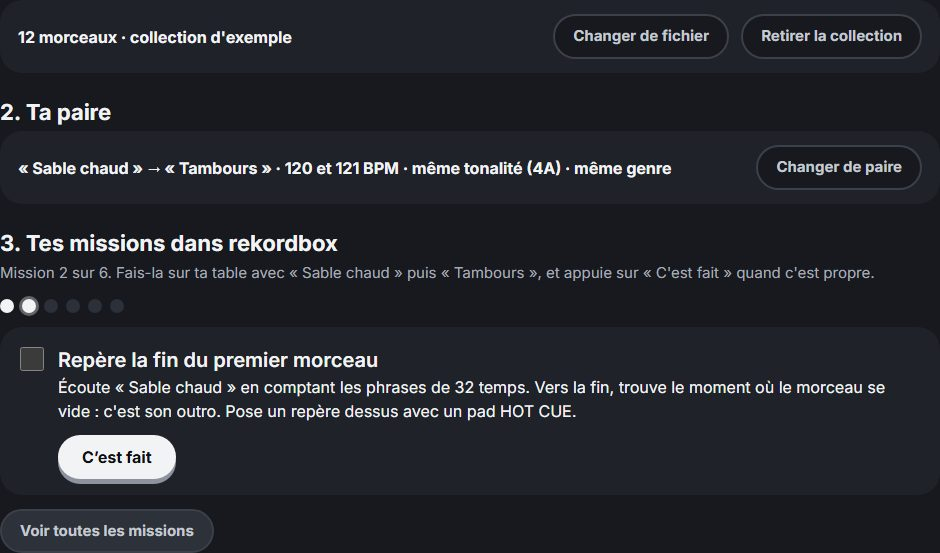
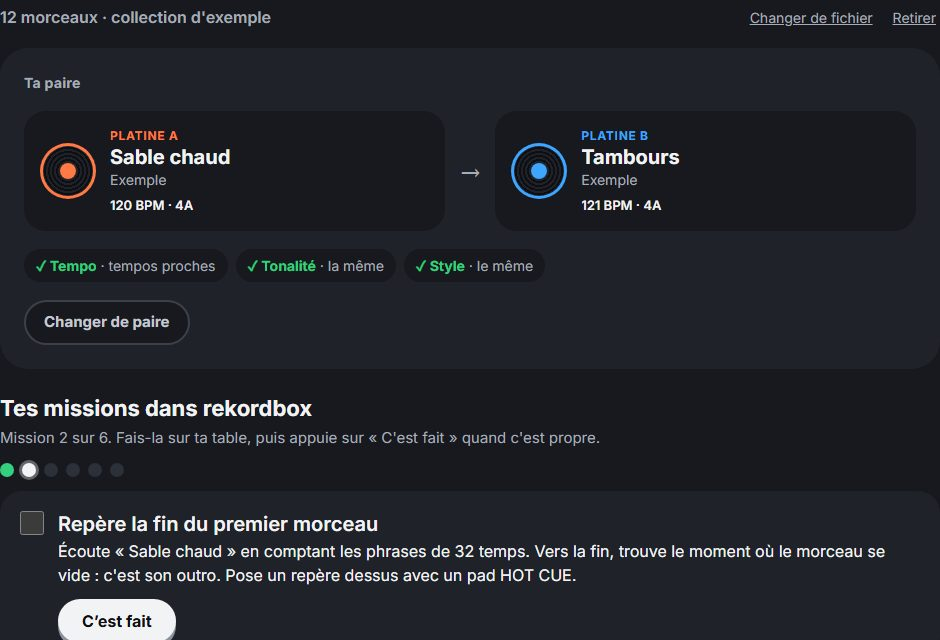
« Passer au vrai » refait : une paire du jour en grand, deux platines, trois pastilles
- Avant l'import : « Mixe ta propre musique » en 3 étapes et un seul gros bouton
- Après : une seule paire proposée, avec Tempo / Tonalité / Style en un coup d'œil
- « C'est parti » ouvre les missions, « Une autre paire » en tire une nouvelle
- La liste complète reste derrière « Choisir une paire moi-même »

diff --git a/js/rekordbox.js b/js/rekordbox.js
@@ -75,15 +75,38 @@ function rbMissionList(a, b){
   ];
 }
 function rbSet(list, name){
-  rbLib = list.slice(0, RB_MAX); rbName = name || ''; rbSel = null; rbChoosing = false; rbShowAll = false; rbMis.pair = ''; rbMis.done = {}; rbSaveMis(); rbAll = null; rbStale = true; rbPage = 0; $('rbFind').value = ''; $('rbMsg').textContent = '';
+  rbLib = list.slice(0, RB_MAX); rbName = name || ''; rbSel = null; rbChoosing = false; rbShowAll = false; rbSug = -1; rbMis.pair = ''; rbMis.done = {}; rbSaveMis(); rbAll = null; rbStale = true; rbPage = 0; $('rbFind').value = ''; $('rbMsg').textContent = '';
   try { if (rbLib.length) localStorage.setItem(RB_KEY, JSON.stringify({ n: rbName, t: rbLib })); else localStorage.removeItem(RB_KEY); }
   catch (e) { $('rbMsg').textContent = 'Ta collection est trop grande pour être gardée en mémoire : il faudra la réimporter à ta prochaine visite.'; }
   renderReal();
 }
-// Une étape à la fois : la liste des paires se replie une fois la paire choisie (rbChoosing la rouvre),
-// et une seule mission est affichée, sauf si on demande à les voir toutes (rbShowAll)
-let rbChoosing = false, rbShowAll = false;
-function rbChoose(){ rbChoosing = true; rbShowAll = false; renderReal(); $('rbPairTitle').scrollIntoView({ behavior: REDUCED ? 'auto' : 'smooth', block: 'start' }); }
+// Une étape à la fois. Sans paire choisie, une seule paire est proposée en grand (rbSug, « Ta paire du jour ») ;
+// la liste complète s'ouvre avec « Choisir une paire moi-même » (rbChoosing). Une fois la paire choisie, ses
+// missions s'affichent une par une, sauf si on demande à les voir toutes (rbShowAll).
+let rbChoosing = false, rbShowAll = false, rbSug = -1;
+const rbScroll = id => $(id).scrollIntoView({ behavior: REDUCED ? 'auto' : 'smooth', block: 'start' });
+function rbChoose(){ rbChoosing = true; rbShowAll = false; renderReal(); rbScroll('rbPairPick'); }
+// Choisit une paire : ses missions repartent de zéro si c'en est une nouvelle
+function rbPickPair(i, j){ const k = i + '|' + j; if (rbMis.pair !== k){ rbMis.pair = k; rbMis.done = {}; rbSaveMis(); } rbSel = [i, j]; rbChoosing = false; rbShowAll = false; renderReal(); rbScroll('rbMisBox'); }
+// Paire suivante proposée : on laisse la paire en cours et on revient à la proposition
+function rbNextSug(){ rbSel = null; rbMis.pair = ''; rbMis.done = {}; rbSaveMis(); rbChoosing = false; rbSug = rbPairs.length ? (rbSug + 1) % rbPairs.length : 0; renderReal(); rbScroll('rbHero'); }
+// Pourquoi la paire marche, en trois pastilles : ok (vert), mid (jaune)
+function rbChips(a, b){
+  const d = Math.abs(b[3] / a[3] - 1) * 100, rel = rbRel(a[4], b[4]), ga = (a[2] || '').toLowerCase(), gb = (b[2] || '').toLowerCase();
+  return [
+    ['Tempo', d <= .5 ? ['ok', 'même tempo'] : d <= 3 ? ['ok', 'tempos proches'] : ['mid', 'à ajuster'], `${rbBpm(a[3])} et ${rbBpm(b[3])} BPM`],
+    ['Tonalité', { same: ['ok', 'la même'], adj: ['ok', 'voisines'], rel: ['ok', 'cousines'], boost: ['mid', 'montée d’énergie'] }[rel] || ['mid', 'à écouter'], `${a[4]} et ${b[4]}`],
+    ['Style', ga && ga === gb ? ['ok', 'le même'] : ga && gb ? ['mid', 'différents'] : ['mid', 'inconnu'], ga && gb ? `${a[2]} et ${b[2]}` : 'Genre absent de rekordbox']
+  ];
+}
+function rbHero(i, j, chosen){
+  const a = rbLib[i], b = rbLib[j];
+  $('rbKick').textContent = chosen ? 'Ta paire' : 'Ta paire du jour';
+  for (const [t, p] of [[a, 'A'], [b, 'B']]){ $('rb' + p + 'T').textContent = t[0]; $('rb' + p + 'A').textContent = t[1] || 'Artiste inconnu'; $('rb' + p + 'M').textContent = `${rbBpm(t[3])} BPM · ${t[4]}`; }
+  const box = $('rbChips'); box.innerHTML = '';
+  for (const [name, [lvl, txt], tip] of rbChips(a, b)){ const c = document.createElement('span'), k = document.createElement('b'); c.className = 'rbchip ' + lvl; c.title = tip; k.textContent = (lvl === 'ok' ? '✓ ' : '~ ') + name; c.append(k, document.createTextNode(' · ' + txt)); box.appendChild(c); }
+  $('rbGo').hidden = chosen; $('rbNext').hidden = chosen; $('rbPairChange').hidden = !chosen; $('rbOwn').hidden = chosen;
+}
 function rbCheck(id, on, list){
   if (on) rbMis.done[id] = 1; else delete rbMis.done[id];
   if (list.every(m => rbMis.done[m[0]]) && !rbMis.done.ok){ rbMis.done.ok = 1; rbMis.total++; confetti(120); badgeSync(); }
@@ -93,7 +116,7 @@ function renderMissions(){
   const box = $('rbMisBox'); box.hidden = !rbSel || rbChoosing; if (box.hidden) return;
   const a = rbLib[rbSel[0]], b = rbLib[rbSel[1]], list = rbMissionList(a, b), ol = $('rbMissions'); ol.innerHTML = '';
   const cur = list.findIndex(m => !rbMis.done[m[0]]), fini = cur < 0;
-  $('rbMisSub').textContent = fini ? `Les ${list.length} missions sont faites avec « ${a[0]} » puis « ${b[0]} ».` : `Mission ${cur + 1} sur ${list.length}. Fais-la sur ta table avec « ${a[0]} » puis « ${b[0]} », et appuie sur « C'est fait » quand c'est propre.`;
+  $('rbMisSub').textContent = fini ? `Les ${list.length} missions sont faites avec « ${a[0]} » puis « ${b[0]} ».` : `Mission ${cur + 1} sur ${list.length}. Fais-la sur ta table, puis appuie sur « C'est fait » quand c'est propre.`;
   const dots = $('rbDots'); dots.innerHTML = '';
   list.forEach((m, i) => { const d = document.createElement('span'); d.className = rbMis.done[m[0]] ? 'done' : i === cur ? 'now' : ''; dots.appendChild(d); });
   list.forEach(([id, title, text], i) => { const liEl = document.createElement('li'), lab = document.createElement('label'), cb = document.createElement('input'), d = document.createElement('div'), st = document.createElement('strong'), sp = document.createElement('span');
@@ -107,11 +130,16 @@ function renderMissions(){
 }
 function renderReal(){
   const has = rbLib.length > 0; $('rbEmpty').hidden = has; $('rbFull').hidden = !has; if (!has) return;
-  const usable = rbLib.filter(t => t[3] && t[4]).length, pick = !rbSel || rbChoosing;
-  $('rbPairPick').hidden = !pick; $('rbPairSum').hidden = pick; $('rbPairTitle').textContent = pick ? '2. Choisis une paire de morceaux' : '2. Ta paire';
-  if (rbSel){ const a = rbLib[rbSel[0]], b = rbLib[rbSel[1]]; $('rbPairTxt').textContent = `« ${a[0]} » → « ${b[0]} » · ${rbWhy(a, b)}`; }
+  const usable = rbLib.filter(t => t[3] && t[4]).length;
   $('rbSum').textContent = plur(rbLib.length, 'morceau', 'morceaux') + (rbName ? ' · ' + rbName : '') + (usable < rbLib.length ? ` · ${usable} avec tempo et tonalité` : '');
   if (rbStale){ const f = $('rbFind').value.trim(); if (f) rbPairs = rbBuild(f); else rbPairs = rbAll = rbAll || rbBuild(''); rbStale = false; rbPage = 0; }
+  // La paire du jour : tirée de la date parmi les 10 meilleures, puis « Une autre paire » passe à la suivante
+  const top = rbAll || rbPairs;
+  if (rbSug < 0 && top.length){ let h = 7; for (const c of dayKey()) h = (h * 31 + c.charCodeAt(0)) >>> 0; rbSug = h % Math.min(10, top.length); }
+  const sug = top[rbSug % Math.max(1, top.length)];
+  $('rbHero').hidden = rbChoosing || (!rbSel && !sug); $('rbPairPick').hidden = !rbChoosing && (!!rbSel || !!sug);
+  if (rbSel) rbHero(rbSel[0], rbSel[1], true); else if (sug) rbHero(sug[1], sug[2], false);
+  $('rbBack').hidden = !!rbSel || !sug;
   const pages = Math.max(1, Math.ceil(rbPairs.length / RB_PER)); if (rbPage >= pages) rbPage = 0;
   const box = $('rbPairs'); box.innerHTML = '';
   const shown = rbPairs.slice(rbPage * RB_PER, rbPage * RB_PER + RB_PER);
@@ -121,7 +149,7 @@ function renderReal(){
     for (const t of [a, b]){ const pt = document.createElement('span'), nm = document.createElement('b'), ar = document.createElement('span'); pt.className = 'pt'; nm.textContent = t[0]; ar.textContent = t[1] || 'Artiste inconnu'; pt.append(nm, ar);
       if (t === b){ const arrow = document.createElement('span'); arrow.className = 'ar'; arrow.textContent = '→'; arrow.setAttribute('aria-hidden', 'true'); btn.appendChild(arrow); } btn.appendChild(pt); }
     const why = document.createElement('span'); why.className = 'why'; if (c[0] >= 85){ const easy = document.createElement('b'); easy.textContent = 'Facile'; why.appendChild(easy); } why.appendChild(document.createTextNode(rbWhy(a, b))); btn.appendChild(why);
-    btn.addEventListener('click', () => { const k = c[1] + '|' + c[2]; if (rbMis.pair !== k){ rbMis.pair = k; rbMis.done = {}; rbSaveMis(); } rbSel = [c[1], c[2]]; rbChoosing = false; rbShowAll = false; renderReal(); $('rbMisBox').scrollIntoView({ behavior: REDUCED ? 'auto' : 'smooth', block: 'start' }); });
+    btn.addEventListener('click', () => rbPickPair(c[1], c[2]));
     box.appendChild(btn); }
   if (!shown.length){ const p = document.createElement('p'); p.className = 'subnote'; p.textContent = $('rbFind').value.trim() ? 'Aucune paire trouvée pour cette recherche.' : 'Aucune paire trouvée. Vérifie que rekordbox a bien analysé tes morceaux (tempo et tonalité), puis réexporte ta collection.'; box.appendChild(p); }
   $('rbMore').hidden = pages < 2;
@@ -132,8 +160,12 @@ $('rbChange').addEventListener('click', () => $('rbFile').click());
 $('rbDemo').addEventListener('click', () => rbSet(RB_DEMO.map(rbClean), 'collection d\'exemple'));
 $('rbClear').addEventListener('click', () => rbSet([], ''));
 $('rbMore').addEventListener('click', () => { rbPage++; renderReal(); });
+$('rbGo').addEventListener('click', () => { const top = rbAll || rbPairs, sug = top[rbSug % Math.max(1, top.length)]; if (sug) rbPickPair(sug[1], sug[2]); });
+$('rbNext').addEventListener('click', rbNextSug);
+$('rbOwn').addEventListener('click', rbChoose);
+$('rbBack').addEventListener('click', () => { rbChoosing = false; renderReal(); rbScroll('rbHero'); });
 $('rbPairChange').addEventListener('click', rbChoose);
-$('rbAgain').addEventListener('click', rbChoose);
+$('rbAgain').addEventListener('click', rbNextSug);
 $('rbMisAll').addEventListener('click', () => { rbShowAll = !rbShowAll; renderMissions(); });
 $('rbFind').addEventListener('input', () => { rbStale = true; renderReal(); });
 $('rbFile').addEventListener('change', async e => {

diff --git a/tests/vrai.spec.js b/tests/vrai.spec.js
@@ -1,29 +1,79 @@
-// Lot 12 : Passer au vrai, une étape à la fois.
+// Passer au vrai : une paire proposée en grand, puis ses missions une par une (lots 12 et 17).
 const { test, expect } = require('@playwright/test');
 const { ouvrir, sansBandeau } = require('./outils');
 
 const visibles = page => page.locator('#rbMissions li:visible');
 async function paire(page) {
   await page.locator('#rbDemo').click();
-  await page.locator('#rbPairs .duo').first().click();
+  await page.locator('#rbGo').click();
 }
 
-test.describe('Passer au vrai, une étape à la fois', () => {
-  test('3 paires, puis la liste se replie sur la paire choisie', async ({ page }) => {
+test.describe('Avant l\'import', () => {
+  test('trois étapes, un gros bouton, et l\'exemple en petit', async ({ page }) => {
+    const erreurs = await ouvrir(page, { onglet: 'vrai' });
+    await expect(page.locator('#rbEmpty h1')).toHaveText('Mixe ta propre musique');
+    await expect(page.locator('.rbsteps li')).toHaveCount(3);
+    await expect(page.locator('#rbPick')).toBeVisible();
+    await expect(page.locator('#rbDemo')).toHaveText('Essayer avec des morceaux d\'exemple');
+    expect(erreurs).toEqual([]); await sansBandeau(page);
+  });
+});
+
+test.describe('La paire du jour', () => {
+  test('une seule paire en grand : deux platines, trois pastilles, deux boutons', async ({ page }) => {
     const erreurs = await ouvrir(page, { onglet: 'vrai' });
     await page.locator('#rbDemo').click();
-    await expect(page.locator('#rbPairs .duo')).toHaveCount(3);
-    await expect(page.locator('#rbMore')).toBeVisible();
-    await expect(page.locator('#rbMisBox')).toBeHidden();
-    await page.locator('#rbPairs .duo').first().click();
+    await expect(page.locator('#rbKick')).toHaveText('Ta paire du jour');
+    await expect(page.locator('#rbAT')).not.toBeEmpty();
+    await expect(page.locator('#rbBT')).not.toBeEmpty();
+    await expect(page.locator('#rbAM')).toHaveText(/^\d+ BPM · \d+[AB]$/);
+    await expect(page.locator('.rbchip b')).toHaveText([/Tempo$/, /Tonalité$/, /Style$/]);
+    await expect(page.locator('#rbGo')).toBeVisible();
+    await expect(page.locator('#rbNext')).toBeVisible();
     await expect(page.locator('#rbPairPick')).toBeHidden();
-    await expect(page.locator('#rbPairTitle')).toHaveText('2. Ta paire');
-    await expect(page.locator('#rbPairTxt')).toHaveText(/^« Sable chaud » → « Tambours » · 120 et 121 BPM/);
-    await page.locator('#rbPairChange').click();
-    await expect(page.locator('#rbPairPick')).toBeVisible();
     await expect(page.locator('#rbMisBox')).toBeHidden();
     expect(erreurs).toEqual([]); await sansBandeau(page);
   });
+  test('« Une autre paire » en propose une différente', async ({ page }) => {
+    await ouvrir(page, { onglet: 'vrai' });
+    await page.locator('#rbDemo').click();
+    const avant = await page.locator('#rbAT').textContent() + await page.locator('#rbBT').textContent();
+    await page.locator('#rbNext').click();
+    expect(await page.locator('#rbAT').textContent() + await page.locator('#rbBT').textContent()).not.toBe(avant);
+  });
+  test('« C\'est parti » : la carte devient « Ta paire » et les missions s\'ouvrent', async ({ page }) => {
+    await ouvrir(page, { onglet: 'vrai' });
+    await paire(page);
+    await expect(page.locator('#rbKick')).toHaveText('Ta paire');
+    await expect(page.locator('#rbGo')).toBeHidden();
+    await expect(page.locator('#rbPairChange')).toBeVisible();
+    await expect(page.locator('#rbMisBox')).toBeVisible();
+  });
+  test('« Choisir une paire moi-même » ouvre la liste, et on peut revenir', async ({ page }) => {
+    await ouvrir(page, { onglet: 'vrai' });
+    await page.locator('#rbDemo').click();
+    await page.locator('#rbOwn').click();
+    await expect(page.locator('#rbPairPick')).toBeVisible();
+    await expect(page.locator('#rbPairs .duo')).toHaveCount(3);
+    await expect(page.locator('#rbHero')).toBeHidden();
+    await page.locator('#rbBack').click();
+    await expect(page.locator('#rbHero')).toBeVisible();
+    await page.locator('#rbOwn').click();
+    await page.locator('#rbPairs .duo').nth(1).click();
+    await expect(page.locator('#rbKick')).toHaveText('Ta paire');
+    await expect(page.locator('#rbMisBox')).toBeVisible();
+    await page.locator('#rbPairChange').click();
+    await expect(page.locator('#rbPairPick')).toBeVisible();
+    await expect(page.locator('#rbMisBox')).toBeHidden();
+  });
+  test('des titres piégés restent du texte', async ({ page }) => {
+    await ouvrir(page, { onglet: 'vrai', stockage: { 'coach-collection': JSON.stringify({ n: 'x', t: [['<img src=x onerror=alert(1)>', 'A', 'House', 124, '8A'], ['Deux', 'B', 'House', 124, '8A']] }) } });
+    await expect(page.locator('#rbAT, #rbBT')).toContainText(['<img src=x onerror=alert(1)>']);
+    expect(await page.locator('#rbHero img').count()).toBe(0);
+  });
+});
+
+test.describe('Les missions', () => {
   test('une mission à la fois, avec des pastilles', async ({ page }) => {
     await ouvrir(page, { onglet: 'vrai' });
     await paire(page);
@@ -34,7 +84,6 @@ test.describe('Passer au vrai, une étape à la fois', () => {
     await page.locator('#rbMissions .rbok').click();
     await expect(page.locator('#rbMisSub')).toHaveText(/^Mission 2 sur 6\./);
     await expect(page.locator('#rbDots span.done')).toHaveCount(1);
-    await expect(visibles(page).locator('strong')).toHaveText('Repère la fin du premier morceau');
   });
   test('« Voir toutes les missions » montre les 6, et on peut décocher', async ({ page }) => {
     await ouvrir(page, { onglet: 'vrai' });
@@ -42,21 +91,21 @@ test.describe('Passer au vrai, une étape à la fois', () => {
     await page.locator('#rbMissions .rbok').click();
     await page.locator('#rbMisAll').click();
     await expect(visibles(page)).toHaveCount(6);
-    await expect(page.locator('#rbMisAll')).toHaveText('Ne voir que la mission en cours');
     await page.locator('#rbMissions input').first().uncheck();
     await expect(page.locator('#rbMisSub')).toHaveText(/^Mission 1 sur 6\./);
   });
-  test('paire validée : bouton pour en choisir une autre ; la progression survit au rechargement', async ({ page }) => {
+  test('paire validée : « Une autre paire » en propose une nouvelle ; la progression survit au rechargement', async ({ page }) => {
     await ouvrir(page, { onglet: 'vrai' });
     await paire(page);
     for (let i = 0; i < 2; i++) await page.locator('#rbMissions .rbok').click();
     await page.reload();
     await expect(page.locator('#rbMisSub')).toHaveText(/^Mission 3 sur 6\./);
+    const avant = await page.locator('#rbAT').textContent() + await page.locator('#rbBT').textContent();
     for (let i = 0; i < 4; i++) await page.locator('#rbMissions .rbok').click();
     await expect(page.locator('#rbDone')).toContainText('Paire validée');
-    await expect(visibles(page)).toHaveCount(0);
-    await expect(page.locator('#rbMisAll')).toHaveText('Revoir les missions');
     await page.locator('#rbAgain').click();
-    await expect(page.locator('#rbPairPick')).toBeVisible();
+    await expect(page.locator('#rbKick')).toHaveText('Ta paire du jour');
+    await expect(page.locator('#rbMisBox')).toBeHidden();
+    expect(await page.locator('#rbAT').textContent() + await page.locator('#rbBT').textContent()).not.toBe(avant);
   });
 });

diff --git a/index.html b/index.html
@@ -131,36 +131,44 @@
 
   <div class="view" id="vReal" hidden>
     <section class="page">
-      <span class="lnum">Étape 3</span>
-      <h1>Passer au vrai</h1>
-      <p class="lead">Ta musique, ta table, rekordbox : le site te prépare, et tu mixes pour de vrai.</p>
       <input type="file" id="rbFile" accept=".xml,text/xml,application/xml" hidden>
-      <div id="rbEmpty">
-        <h2 class="sub">1. Importe ta collection rekordbox</h2>
-        <ol class="howlist">
-          <li>Dans rekordbox, ouvre le menu <b>Fichier</b>, puis <b>Exporter la collection au format xml</b>.</li>
-          <li>Enregistre le fichier, puis choisis-le ici.</li>
+      <div id="rbEmpty" class="rbempty">
+        <span class="lnum">Passer au vrai</span>
+        <h1>Mixe ta propre musique</h1>
+        <p class="lead">Le site lit ta collection rekordbox et te trouve deux morceaux qui s'enchaînent bien. Toi, tu fais la transition sur ta table.</p>
+        <ol class="rbsteps">
+          <li><span class="rbn">1</span><strong>Exporte ta collection</strong><span>Dans rekordbox : menu Fichier, puis « Exporter la collection au format xml ».</span></li>
+          <li><span class="rbn">2</span><strong>Choisis le fichier ici</strong><span>Rien n'est envoyé : tout reste sur ton ordinateur.</span></li>
+          <li><span class="rbn">3</span><strong>Reçois ta paire</strong><span>Deux de tes morceaux qui vont ensemble, et des missions à faire dans rekordbox.</span></li>
         </ol>
-        <div class="rbrow"><button type="button" class="cta" id="rbPick">Choisir mon fichier rekordbox</button><button type="button" class="ghost" id="rbDemo">Essayer avec une collection d'exemple</button></div>
-        <p class="page-note">Le site lit seulement le titre, l'artiste, le genre, le tempo et la tonalité de tes morceaux. Rien n'est envoyé : tout reste sur ton ordinateur.</p>
+        <div class="rbrow"><button type="button" class="cta" id="rbPick">Choisir mon fichier rekordbox</button><button type="button" class="linkbtn" id="rbDemo">Essayer avec des morceaux d'exemple</button></div>
       </div>
       <div id="rbFull" hidden>
-        <div class="rbhead"><p class="rbsum" id="rbSum"></p><div class="rbrow"><button type="button" class="ghost" id="rbChange">Changer de fichier</button><button type="button" class="ghost" id="rbClear">Retirer la collection</button></div></div>
-        <h2 class="sub" id="rbPairTitle">2. Choisis une paire de morceaux</h2>
-        <div id="rbPairPick">
-          <p class="subnote">Ces morceaux de ta collection s'enchaînent bien : tempos proches, tonalités qui vont ensemble.</p>
+        <div class="rbtop"><p class="rbsum" id="rbSum"></p><button type="button" class="linkbtn" id="rbChange">Changer de fichier</button><button type="button" class="linkbtn" id="rbClear">Retirer</button></div>
+        <div class="rbhero" id="rbHero">
+          <span class="lnum" id="rbKick">Ta paire du jour</span>
+          <div class="rbdecks">
+            <div class="rbdeck rba"><span class="rbdisc" aria-hidden="true"></span><div><span class="rbside">Platine A</span><strong id="rbAT"></strong><span class="rbart" id="rbAA"></span><span class="rbmeta" id="rbAM"></span></div></div>
+            <span class="rbto" aria-hidden="true">→</span>
+            <div class="rbdeck rbb"><span class="rbdisc" aria-hidden="true"></span><div><span class="rbside">Platine B</span><strong id="rbBT"></strong><span class="rbart" id="rbBA"></span><span class="rbmeta" id="rbBM"></span></div></div>
+          </div>
+          <div class="rbchips" id="rbChips"></div>
+          <div class="rbrow"><button type="button" class="cta" id="rbGo">C'est parti</button><button type="button" class="ghost" id="rbNext">Une autre paire</button><button type="button" class="ghost" id="rbPairChange" hidden>Changer de paire</button></div>
+          <button type="button" class="linkbtn" id="rbOwn">Choisir une paire moi-même</button>
+        </div>
+        <div id="rbPairPick" hidden>
+          <div class="path-head"><h2 class="sub">Choisis ta paire</h2><button type="button" class="linkbtn" id="rbBack">Revenir à la paire proposée</button></div>
           <input type="search" class="rbfind" id="rbFind" placeholder="Chercher un morceau ou un artiste" aria-label="Chercher un morceau ou un artiste">
           <div class="duos" id="rbPairs"></div>
           <button type="button" class="ghost" id="rbMore">Voir d'autres paires</button>
         </div>
-        <div class="rbhead" id="rbPairSum" hidden><p class="rbsum" id="rbPairTxt"></p><div class="rbrow"><button type="button" class="ghost" id="rbPairChange">Changer de paire</button></div></div>
         <div id="rbMisBox" hidden>
-          <h2 class="sub">3. Tes missions dans rekordbox</h2>
+          <h2 class="sub">Tes missions dans rekordbox</h2>
           <p class="subnote" id="rbMisSub"></p>
           <div class="rbdots" id="rbDots" aria-hidden="true"></div>
           <ol class="missions" id="rbMissions"></ol>
           <p class="rbdone" id="rbDone" hidden></p>
-          <div class="rbrow rbmis-row"><button type="button" class="cta" id="rbAgain" hidden>Choisir une autre paire</button><button type="button" class="ghost" id="rbMisAll">Voir toutes les missions</button></div>
+          <div class="rbrow rbmis-row"><button type="button" class="cta" id="rbAgain" hidden>Une autre paire</button><button type="button" class="ghost" id="rbMisAll">Voir toutes les missions</button></div>
         </div>
       </div>
       <p class="rbmsg" id="rbMsg" role="status"></p>

diff --git a/styles.css b/styles.css
@@ -677,6 +677,36 @@ details.cmp[open] summary{margin-bottom:8px}
 .missions li.now span{font-size:16px;color:var(--fg)}
 .rbok{margin-left:52px;font-size:16px;padding:10px 24px}
 .rbmis-row{margin-top:14px}
+/* Lot 17 : « Passer au vrai » visuel (paire du jour, deux platines, trois pastilles) */
+.linkbtn{border:0;background:none;color:var(--muted);text-decoration:underline;font-size:14px;padding:6px 4px}
+.linkbtn:hover{color:var(--fg)}
+.rbempty .lead{max-width:46ch}
+.rbsteps{list-style:none;margin:6px 0 24px;padding:0;display:grid;grid-template-columns:repeat(3,minmax(0,1fr));gap:12px}
+.rbsteps li{background:var(--panel-2);border-radius:20px;padding:16px 18px;display:flex;flex-direction:column;gap:4px}
+.rbsteps strong{font-family:var(--display);font-weight:700;font-size:17px}
+.rbsteps li>span:last-child{font-size:14px;color:var(--muted)}
+.rbn{display:grid;place-items:center;width:30px;height:30px;border-radius:50%;background:var(--accent);color:var(--ink);font-weight:800;margin-bottom:6px}
+.rbtop{display:flex;align-items:center;gap:6px 12px;flex-wrap:wrap;margin-bottom:14px}
+.rbtop .rbsum{margin:0 auto 0 0;color:var(--muted);font-weight:600}
+.rbhero{background:var(--panel-2);border-radius:28px;padding:24px;display:flex;flex-direction:column;gap:18px;align-items:flex-start}
+.rbdecks{display:grid;grid-template-columns:minmax(0,1fr) auto minmax(0,1fr);gap:14px;align-items:center;width:100%}
+.rbdeck{display:flex;gap:14px;align-items:center;background:var(--panel);border-radius:22px;padding:16px;min-width:0}
+.rbdeck>div{display:flex;flex-direction:column;min-width:0}
+.rbdeck strong{font-family:var(--display);font-weight:700;font-size:20px;line-height:1.2;overflow-wrap:anywhere}
+.rbside{font-size:12px;font-weight:700;letter-spacing:.06em;text-transform:uppercase}
+.rba .rbside{color:var(--a)}.rbb .rbside{color:var(--b)}
+.rbart{color:var(--muted);font-size:14px}
+.rbmeta{margin-top:6px;font-size:13px;font-weight:600;color:var(--fg)}
+.rbdisc{flex:none;width:56px;height:56px;border-radius:50%;background:repeating-radial-gradient(circle,var(--panel-2) 0 2px,var(--bg) 2px 4px);position:relative;box-shadow:inset 0 0 0 3px var(--c)}
+.rbdisc::after{content:"";position:absolute;inset:20px;border-radius:50%;background:var(--c)}
+.rba .rbdisc{--c:var(--a)}.rbb .rbdisc{--c:var(--b)}
+.rbto{font-size:26px;color:var(--muted)}
+.rbchips{display:flex;gap:8px;flex-wrap:wrap}
+.rbchip{border-radius:999px;padding:6px 12px;font-size:14px;background:var(--panel);color:var(--muted)}
+.rbchip b{font-weight:700}
+.rbchip.ok b{color:var(--ok)}
+.rbchip.mid b{color:var(--mid)}
+@media (max-width:760px){.rbsteps{grid-template-columns:1fr}.rbdecks{grid-template-columns:1fr}.rbto{justify-self:center;transform:rotate(90deg)}}
 .page-note{margin:20px 0 0;font-size:15px;color:var(--muted)}
 .page-note a{color:var(--xp);font-weight:700}
 @media (max-width:760px){.hero,.page{padding:24px;border-radius:26px}.steps{grid-template-columns:1fr}}

diff --git a/tests/captures.js b/tests/captures.js
@@ -11,7 +11,7 @@ const ECRANS = [
   ['03-niveau', VENU, 'apprendre', async p => { await p.locator('.node').nth(2).click(); }],
   ['04-guide', {}, 'apprendre', null],
   ['05-entrainer', VENU, 'entrainer', null],
-  ['06-vrai', VENU, 'vrai', async p => { await p.locator('#rbDemo').click(); await p.locator('#rbPairs .duo').first().click(); await p.locator('#rbMissions input').first().check(); }],
+  ['06-vrai', VENU, 'vrai', async p => { await p.locator('#rbDemo').click(); await p.locator('#rbGo').click(); await p.locator('#rbMissions .rbok').click(); }],
   ['07-table-branchee', VENU, 'apprendre', async p => { await p.locator('.node').nth(3).click(); await p.evaluate(() => { window.__midi.envoyer(0xB0, 19, 127); window.__midi.envoyer(0xB1, 19, 64); window.__midi.envoyer(0xB0, 15, 64); }); }, true],
   ['15-progres', VENU, 'progres', null],
   ['17-ralenti', { 'coach-guide-vu': '1', 'coach-parcours': 'debut', 'coach-lecons': S({ 0: 3, 1: 2, 2: 2, 3: 2, 4: 2, 5: 2, 6: 2 }), 'coach-chapitre': '4' }, 'apprendre', async p => { await p.locator('.node').nth(1).click(); await p.evaluate(() => { $('rStars').innerHTML = '<span class="on">★</span><span>★</span><span>★</span>'; $('rTitle').textContent = 'Pas encore. Lis le conseil et rejoue.'; $('rDetails').innerHTML = '<li class="bad">Swap à 2,5 temps de la phrase.</li>'; $('result').hidden = false; slowOffer(1); slowOffer(1); }); }],

diff --git a/tests/images-presentation.js b/tests/images-presentation.js
@@ -32,7 +32,7 @@ const fausseTable = () => { const inputs = new Map([['1', { id: '1', name: 'DDJ-
   // 2. L'accueil : la prochaine étape et l'objectif du jour
   p = await page('accueil'); await shot(p, 'accueil.jpg', '.hero'); await p.context().close();
   // 3. Passer au vrai : une paire de la collection d'exemple et ses missions
-  p = await page('vrai'); await p.locator('#rbDemo').click(); await p.locator('#rbPairs .duo').first().click(); await p.locator('#rbMissions input').first().check(); await p.waitForTimeout(400);
+  p = await page('vrai'); await p.locator('#rbDemo').click(); await p.locator('#rbGo').click(); await p.locator('#rbMissions .rbok').click(); await p.waitForTimeout(400);
   await shot(p, 'vrai.jpg', '#rbFull', 640); await p.context().close();
   await b.close(); if (srv) srv.kill();
 })();

diff --git a/tests/site.spec.js b/tests/site.spec.js
@@ -195,8 +195,8 @@ test.describe('Passer au vrai', () => {
     const erreurs = await ouvrir(page, { onglet: 'vrai' });
     await page.locator('#rbDemo').click();
     await expect(page.locator('#rbSum')).toContainText('12 morceaux');
-    await expect(page.locator('#rbPairs .duo')).toHaveCount(3);
-    await page.locator('#rbPairs .duo').first().click();
+    await expect(page.locator('#rbHero')).toBeVisible();
+    await page.locator('#rbGo').click();
     await expect(page.locator('#rbMissions li')).toHaveCount(6);
     for (let i = 0; i < 6; i++) await page.locator('#rbMissions .rbok').click();
     await expect(page.locator('#rbDone')).toContainText('Paire validée');

diff --git a/presentation.html b/presentation.html
@@ -49,7 +49,7 @@
     <div class="pres-step">
       <div class="pres-txt"><span class="pres-n">3</span><h3>Passer au vrai</h3>
         <p>Importe ta collection rekordbox : le site te propose des paires de tes morceaux qui s'enchaînent bien, puis des missions à faire dans rekordbox, avec ta musique.</p></div>
-      <img src="img/vrai.jpg" width="940" height="553" alt="Une paire de morceaux de la collection, et la mission en cours à faire dans rekordbox" loading="lazy">
+      <img src="img/vrai.jpg" width="940" height="640" alt="Une paire de morceaux de la collection, et la mission en cours à faire dans rekordbox" loading="lazy">
     </div>
   </section>
 

diff --git a/tests/quiz.spec.js b/tests/quiz.spec.js
@@ -186,7 +186,7 @@ test.describe('Badge « Pour de vrai »', () => {
   test('valider une première paire donne le badge', async ({ page }) => {
     await ouvrir(page, { onglet: 'vrai' });
     await page.locator('#rbDemo').click();
-    await page.locator('#rbPairs .duo').first().click();
+    await page.locator('#rbGo').click();
     for (let i = 0; i < 6; i++) await page.locator('#rbMissions .rbok').click();
     await expect(page.locator('#rbDone')).toContainText('Nouveau badge : Pour de vrai.');
     expect(await stocke(page, 'coach-badges')).toEqual(['vrai']);

diff --git a/CLAUDE.md b/CLAUDE.md
@@ -198,6 +198,15 @@ Hors du plan : refaire un logiciel de mix complet. rekordbox sert à mixer pour 
   jaune : étoiles. Images de la présentation refaites. Contraste contrôlé, 174 tests verts.
 - **Lot 16 publié le 15 oct. 2026.** Bande « Les parties d'un morceau » du guide laissée orange (couleurs du
   morceau A) : à changer si l'utilisateur le demande.
+- **Lot 17 (15 oct. 2026)** : branche `lot-17-vrai-visuel`, non publiée. Demande de l'utilisateur : « Passer au vrai »
+  mal organisé, pas visuel, a l'air compliqué. Avant l'import : « Mixe ta propre musique », 3 étapes
+  (`.rbsteps`), un gros bouton, l'exemple en petit lien. Après : **une seule paire en grand** (`#rbHero`,
+  « Ta paire du jour », tirée de la date parmi les 10 meilleures, `rbSug`), deux platines dessinées A/B,
+  trois pastilles Tempo / Tonalité / Style (`rbChips`), boutons « C'est parti » (`rbPickPair`) et « Une autre
+  paire » (`rbNextSug`) ; la liste complète et la recherche sont derrière « Choisir une paire moi-même »
+  (`#rbPairPick`, `rbChoosing`). Missions inchangées (une à la fois). Calcul des paires et textes des
+  missions inchangés. Prévu ensuite : bouton « Jouer cette paire ici » avec les fichiers de l'utilisateur
+  (essai « Ta musique » : import MP3 + grille rekordbox). 179 tests verts.
 - Plan en 5 étapes : 1. Restructurer (3 onglets, supprimer le mode libre, page d'accueil) ·
   2. Remplir S'entraîner · 3. Remplir Passer au vrai · 4. Tester avec 3 à 5 débutants · 5. Lancer.
 - **1. Restructurer : fait le 12 oct. 2026.** Accueil + 3 onglets dans `index.html`, lien « Mode libre »
